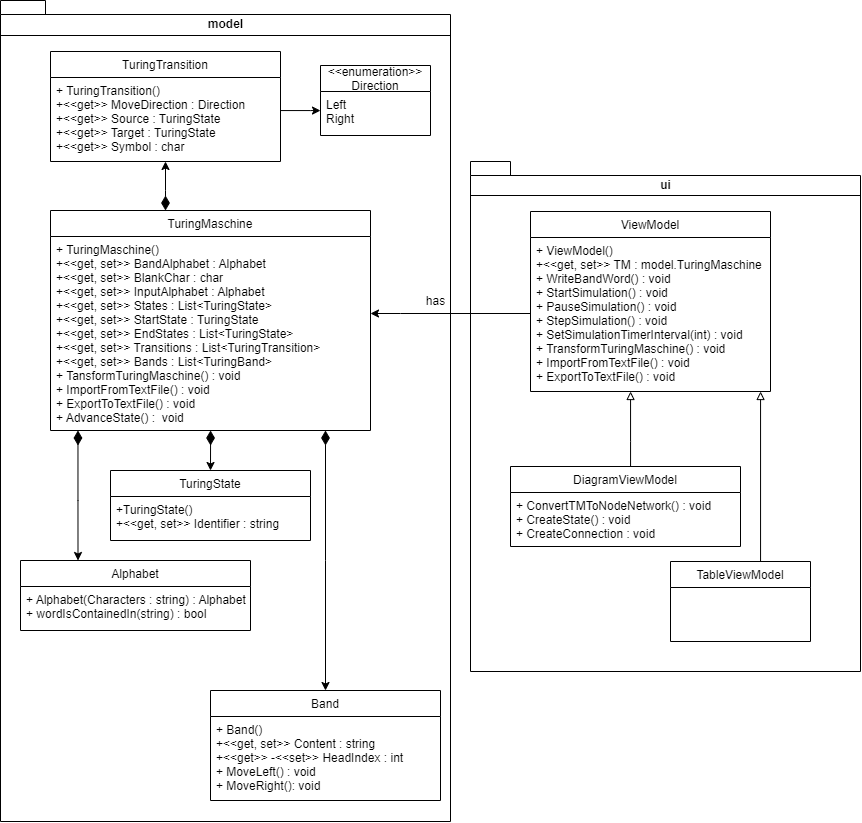
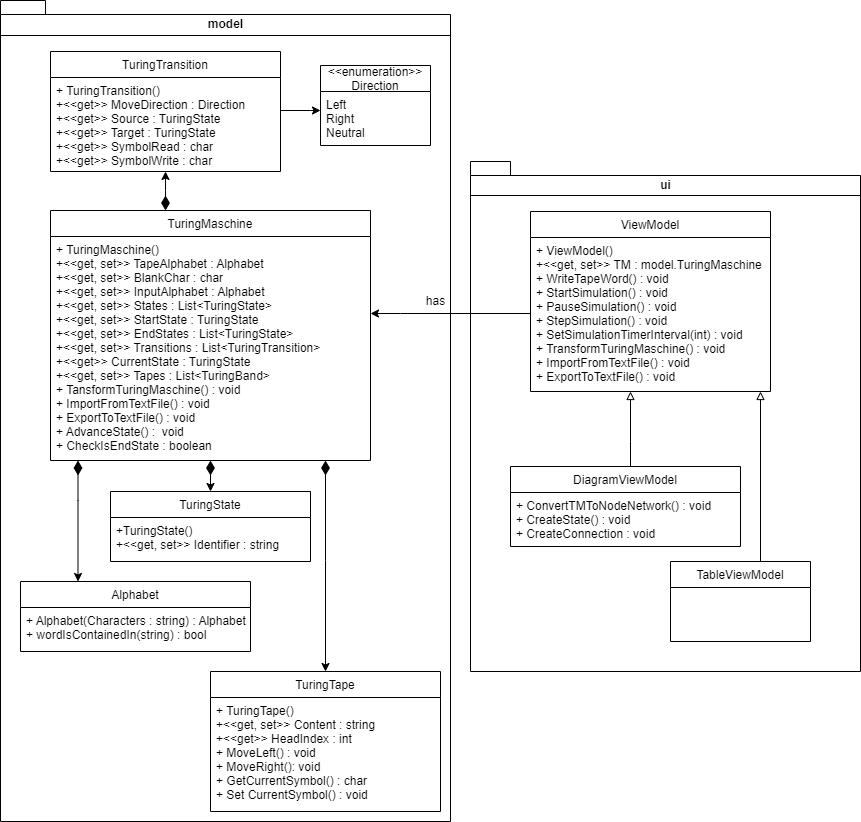
feature/SWP_64_Schnittstellenuebersicht_ueberarbeiten

diff --git a/03_Implementierung/TMSim/ui/Tape.xaml b/03_Implementierung/TMSim/ui/Tape.xaml
@@ -1,4 +1,4 @@
-<UserControl x:Class="TMSim.ui.Band"
+<UserControl x:Class="TMSim.ui.Tape"
              xmlns="http://schemas.microsoft.com/winfx/2006/xaml/presentation"
              xmlns:x="http://schemas.microsoft.com/winfx/2006/xaml"
              xmlns:mc="http://schemas.openxmlformats.org/markup-compatibility/2006" 

diff --git a/03_Implementierung/TMSim/MainWindow.xaml b/03_Implementierung/TMSim/MainWindow.xaml
@@ -87,7 +87,7 @@
             <Grid.RowDefinitions>
                 <RowDefinition Height="100"/>
             </Grid.RowDefinitions>
-            <ui:Band Grid.Row="0" Margin="0,0,0,0" />
+            <ui:Tape Grid.Row="0" Margin="0,0,0,0" />
             <!--Command="{Binding WriteBandWord}"-->
         </Grid>
 

diff --git a/03_Implementierung/TMSim/model/TuringMaschine.cs b/03_Implementierung/TMSim/model/TuringMaschine.cs
@@ -15,7 +15,7 @@ namespace TMSim.model
             }
         }
 
-        public Alphabet BandAlphabet { get; set; }
+        public Alphabet TapeAlphabet { get; set; }
         public char BlankChar { get; set; }
         public Alphabet InputAlphabet { get; set; }
         public List<TuringState> States { get; set; }
@@ -24,13 +24,13 @@ namespace TMSim.model
         public List<TuringTransition> Transitions { get; set; }
 
         public TuringState CurrentState { get; private set; }
-        public List<TuringBand> Bands { get; set; }
+        public List<TuringTape> Tapes { get; set; }
 
-        public TuringMaschine(Alphabet bandAlphabet, char blankChar, Alphabet inputAlphabet, 
+        public TuringMaschine(Alphabet tapeAlphabet, char blankChar, Alphabet inputAlphabet, 
             List<TuringState> states, TuringState startState, List<TuringState> endStates, 
             List<TuringTransition> transitions)
         {
-            this.BandAlphabet = bandAlphabet;
+            this.TapeAlphabet = tapeAlphabet;
             this.BlankChar = blankChar;
             this.InputAlphabet = inputAlphabet;
             this.States = states;
@@ -60,9 +60,9 @@ namespace TMSim.model
         {
             try{
                 TuringTransition transition = GetTransition();
-                Bands[0].SetCurrentSymbol(transition.SymbolWrite);
-                if (transition.MoveDirection == TuringTransition.Direction.Right) Bands[0].MoveRight();
-                else if (transition.MoveDirection == TuringTransition.Direction.Left) Bands[0].MoveLeft();
+                Tapes[0].SetCurrentSymbol(transition.SymbolWrite);
+                if (transition.MoveDirection == TuringTransition.Direction.Right) Tapes[0].MoveRight();
+                else if (transition.MoveDirection == TuringTransition.Direction.Left) Tapes[0].MoveLeft();
                 CurrentState = transition.Target;
             }
             catch(TransitionNotFound){
@@ -80,7 +80,7 @@ namespace TMSim.model
 
         private TuringTransition GetTransition(){
             foreach(TuringTransition transition in Transitions){
-                if (transition.Source == CurrentState && transition.SymbolRead == Bands[0].GetCurrentSymbol()) return transition;
+                if (transition.Source == CurrentState && transition.SymbolRead == Tapes[0].GetCurrentSymbol()) return transition;
             }
             throw new TransitionNotFound("Can not find transition");
         }

diff --git a/03_Implementierung/TMSim/ui/ViewModel.cs b/03_Implementierung/TMSim/ui/ViewModel.cs
@@ -14,7 +14,7 @@ namespace TMSim.ui
             StartPauseSimulation = new RelayCommand((o) => { OnStartPauseSimulation(); });
             StepSimulation = new RelayCommand((o) => { OnStepSimulation(); });
             StopSimulation = new RelayCommand((o) => { OnStopSimulation(); });
-            WriteBandWord = new RelayCommand((o) => { OnWriteBandWord(); });
+            WriteTapeWord = new RelayCommand((o) => { OnWriteBandWord(); });
         }
 
         public bool HighlightCurrentState { get; set; } = true;
@@ -22,7 +22,7 @@ namespace TMSim.ui
         public RelayCommand StartPauseSimulation { get; set; }
         public RelayCommand StepSimulation { get; set; }
         public RelayCommand StopSimulation { get; set; }
-        public RelayCommand WriteBandWord { get; set; }
+        public RelayCommand WriteTapeWord { get; set; }
 
         public model.TuringMaschine TM
         {

diff --git a/03_Implementierung/TMSim/model/TuringTape.cs b/03_Implementierung/TMSim/model/TuringTape.cs
@@ -6,14 +6,14 @@ using System.Threading.Tasks;
 
 namespace TMSim.model
 {
-    class TuringBand
+    class TuringTape
     {
         public string Content { get; set; }
         private char Blank {get; set;}
 
         public int HeadIndex { get; private set; }
 
-        public TuringBand(string content, char blank){
+        public TuringTape(string content, char blank){
             this.Content = content;
             this.Blank = blank;
         }
@@ -24,7 +24,7 @@ namespace TMSim.model
             return Content[HeadIndex];
         }
 
-        public void SetCurrentSymbol(char newSymbol){//need to be added in "Schnittstellenuebersicht"
+        public void SetCurrentSymbol(char newSymbol){
             char[] chars = Content.ToCharArray();
             chars[HeadIndex] = newSymbol;
             Content = new string(chars);

diff --git a/03_Implementierung/TMSim/ui/Tape.xaml.cs b/03_Implementierung/TMSim/ui/Tape.xaml.cs
@@ -16,16 +16,13 @@ using System.Windows.Shapes;
 
 namespace TMSim.ui
 {
-    /// <summary>
-    /// Interaction logic for Band.xaml
-    /// </summary>
-    public partial class Band : UserControl
+    public partial class Tape : UserControl
     {
         [Bindable(true)]
         [Category("Action")]
         public RelayCommand Command { get; set; }        
         public string BandContent { get; set; }
-        public Band()
+        public Tape()
         {
             InitializeComponent();
         }

diff --git a/03_Implementierung/TMSim/model/TuringTransition.cs b/03_Implementierung/TMSim/model/TuringTransition.cs
@@ -13,7 +13,7 @@ namespace TMSim.model
         public TuringState Source { get; }
         public TuringState Target { get; }
         public char SymbolRead { get; }
-        public char SymbolWrite {get; }
+        public char SymbolWrite { get; }
         
         public Direction MoveDirection { get; }
 

diff --git a/03_Implementierung/TMSim/ui/Table.xaml.cs b/03_Implementierung/TMSim/ui/Table.xaml.cs
@@ -15,9 +15,6 @@ using System.Windows.Shapes;
 
 namespace TMSim.ui
 {
-    /// <summary>
-    /// Interaction logic for TableUserControl.xaml
-    /// </summary>
     public partial class Table : UserControl
     {
         public Table()
